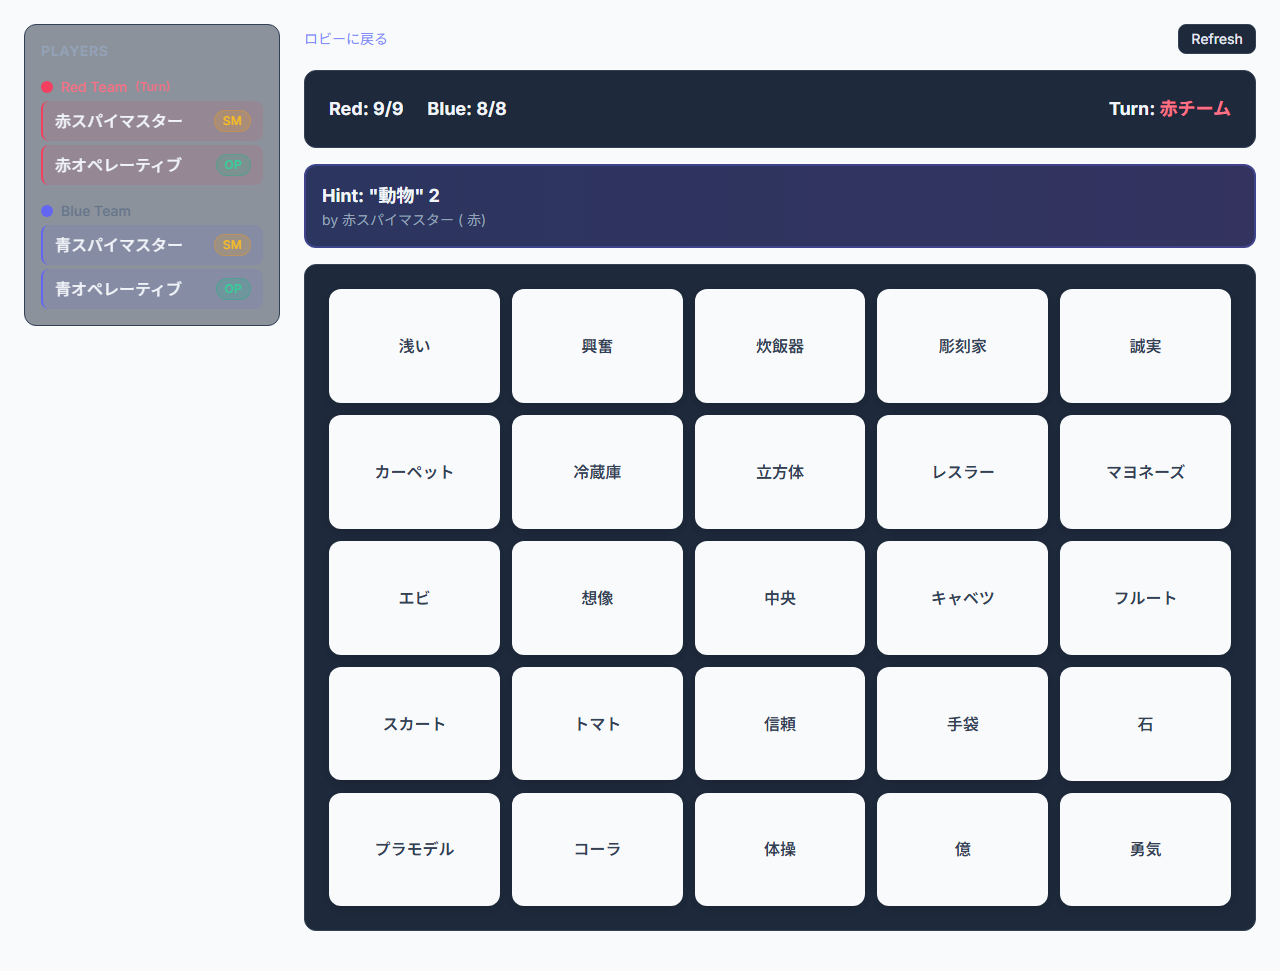
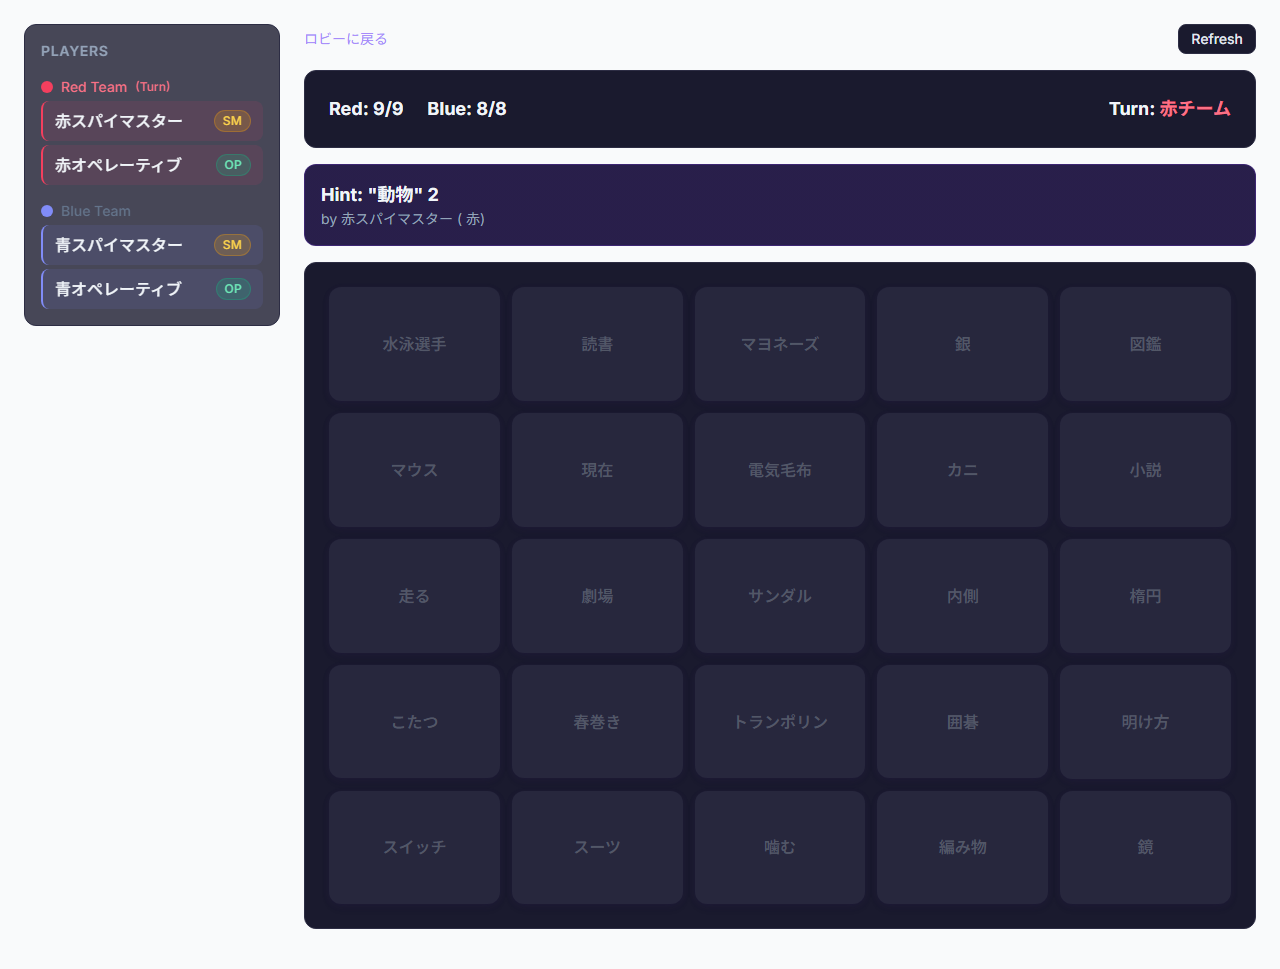
refactor: ゲームUIを統一感のあるダークパープルテーマに変更
- 白カードを廃止し、ダークパープル系の統一カラーパレットに変更
- Gaming風配色: 背景#0F0F23、カード#2d2d44、アクセント#7C3AED
- コントラストを抑えた柔らかい配色で目に優しく
- ボタン・ヒント表示・ボーダーをパープル系で統一
- 紫のグロー効果を追加したカードシャドウ

🤖 Generated with [Claude Code](https://claude.com/claude-code)

diff --git a/client/e2e/screenshot-game.spec.ts b/client/e2e/screenshot-game.spec.ts
@@ -1,0 +1,132 @@
+import { test, expect } from '@playwright/test';
+
+const PROD_URL = process.env.PROD_URL || 'http://localhost:5173';
+
+test.describe('ゲーム画面スクリーンショット', () => {
+  test('ゲーム画面のデザインをキャプチャ', async ({ browser }) => {
+    test.setTimeout(120000);
+
+    const context1 = await browser.newContext();
+    const context2 = await browser.newContext();
+    const context3 = await browser.newContext();
+    const context4 = await browser.newContext();
+
+    const hostPage = await context1.newPage();
+    const player2Page = await context2.newPage();
+    const player3Page = await context3.newPage();
+    const player4Page = await context4.newPage();
+
+    try {
+      // ルーム作成
+      await hostPage.goto(PROD_URL);
+      await hostPage.waitForLoadState('networkidle');
+
+      await hostPage.getByRole('link', { name: /ルームを作成/ }).click();
+      await hostPage.waitForTimeout(2000);
+
+      await hostPage.fill('#nickname', '赤スパイマスター');
+      await hostPage.fill('#roomName', 'デザインテスト');
+      await hostPage.getByRole('button', { name: /ルームを作成/i }).click();
+      await hostPage.waitForURL(/\/room\/[A-Z0-9]+$/, { timeout: 30000 });
+
+      const roomUrl = hostPage.url();
+      const roomCode = roomUrl.split('/').pop() || '';
+
+      // プレイヤー参加
+      await player2Page.goto(`${PROD_URL}/join`);
+      await player2Page.fill('#roomCode', roomCode);
+      await player2Page.fill('#nickname', '赤オペレーティブ');
+      await player2Page.getByRole('button', { name: /参加/i }).click();
+      await player2Page.waitForTimeout(2000);
+
+      await player3Page.goto(`${PROD_URL}/join`);
+      await player3Page.fill('#roomCode', roomCode);
+      await player3Page.fill('#nickname', '青スパイマスター');
+      await player3Page.getByRole('button', { name: /参加/i }).click();
+      await player3Page.waitForTimeout(2000);
+
+      await player4Page.goto(`${PROD_URL}/join`);
+      await player4Page.fill('#roomCode', roomCode);
+      await player4Page.fill('#nickname', '青オペレーティブ');
+      await player4Page.getByRole('button', { name: /参加/i }).click();
+      await player4Page.waitForTimeout(2000);
+
+      // チーム選択
+      await hostPage.getByRole('button', { name: /スパイマスターになる/i }).first().click();
+      await hostPage.waitForTimeout(1000);
+
+      await player2Page.getByRole('button', { name: /オペレーティブになる/i }).first().click();
+      await player2Page.waitForTimeout(1000);
+
+      await player3Page.getByRole('button', { name: /スパイマスターになる/i }).nth(1).click();
+      await player3Page.waitForTimeout(1000);
+
+      await player4Page.getByRole('button', { name: /オペレーティブになる/i }).nth(1).click();
+      await player4Page.waitForTimeout(2000);
+
+      // ロビー画面スクリーンショット
+      await hostPage.screenshot({ path: 'screenshots/lobby-new-design.png', fullPage: true });
+
+      // ゲーム開始
+      await hostPage.getByRole('button', { name: /ゲームを開始/i }).click();
+      await hostPage.waitForURL(/\/room\/[A-Z0-9]+\/game$/);
+      await hostPage.waitForTimeout(3000);
+
+      // 他のプレイヤーもゲーム画面に遷移
+      await player2Page.goto(`${PROD_URL}/room/${roomCode}/game`);
+      await player3Page.goto(`${PROD_URL}/room/${roomCode}/game`);
+      await player4Page.goto(`${PROD_URL}/room/${roomCode}/game`);
+      await hostPage.waitForTimeout(3000);
+
+      // スパイマスタービュースクリーンショット
+      await hostPage.screenshot({ path: 'screenshots/game-spymaster-view.png', fullPage: true });
+
+      // オペレーティブビュースクリーンショット
+      await player2Page.screenshot({ path: 'screenshots/game-operative-view.png', fullPage: true });
+
+      // ヒント入力
+      const hintInput = hostPage.locator('input[placeholder*="hint" i], input[placeholder*="ヒント"]');
+      if (await hintInput.isVisible()) {
+        await hintInput.fill('動物');
+        const countInput = hostPage.locator('input[type="number"]');
+        await countInput.fill('2');
+        await hostPage.getByRole('button', { name: /送信/i }).click();
+        await hostPage.waitForTimeout(2000);
+      }
+
+      // ヒント表示後スクリーンショット
+      await player2Page.reload();
+      await player2Page.waitForTimeout(2000);
+      await player2Page.screenshot({ path: 'screenshots/game-with-hint.png', fullPage: true });
+
+      // カード選択（1枚）
+      const cardButtons = player2Page.locator('button').filter({
+        hasText: /[\u3040-\u309F\u30A0-\u30FF\u4E00-\u9FAF]+/
+      });
+      const cardCount = await cardButtons.count();
+      for (let i = 0; i < cardCount; i++) {
+        const btn = cardButtons.nth(i);
+        const text = await btn.textContent();
+        const isDisabled = await btn.isDisabled();
+        if (text && !text.includes('更新') && !text.includes('Refresh') && !text.includes('ロビー') && !isDisabled) {
+          await btn.click();
+          await player2Page.waitForTimeout(2000);
+          break;
+        }
+      }
+
+      // カード公開後スクリーンショット
+      await hostPage.reload();
+      await hostPage.waitForTimeout(2000);
+      await hostPage.screenshot({ path: 'screenshots/game-card-revealed.png', fullPage: true });
+
+      console.log('✅ スクリーンショット保存完了: screenshots/');
+
+    } finally {
+      await context1.close();
+      await context2.close();
+      await context3.close();
+      await context4.close();
+    }
+  });
+});

diff --git a/client/src/components/game/GameCard.tsx b/client/src/components/game/GameCard.tsx
@@ -14,38 +14,41 @@ export default function GameCard({ card, isSpymaster, onSelect, disabled }: Game
     if (card.isRevealed) {
       switch (card.type) {
         case CardTypeEnum.RED:
-          return baseStyles + ' bg-gradient-to-br from-rose-500 to-rose-600 text-white shadow-lg shadow-rose-500/25 opacity-80';
+          return baseStyles + ' bg-gradient-to-br from-rose-600/90 to-rose-700/90 text-white shadow-lg shadow-rose-500/30';
         case CardTypeEnum.BLUE:
-          return baseStyles + ' bg-gradient-to-br from-indigo-500 to-indigo-600 text-white shadow-lg shadow-indigo-500/25 opacity-80';
+          return baseStyles + ' bg-gradient-to-br from-indigo-500/90 to-indigo-600/90 text-white shadow-lg shadow-indigo-500/30';
         case CardTypeEnum.NEUTRAL:
-          return baseStyles + ' bg-slate-600 text-slate-300 opacity-60';
+          return baseStyles + ' bg-gray-600/80 text-gray-300';
         case CardTypeEnum.ASSASSIN:
-          return baseStyles + ' bg-gradient-to-br from-zinc-800 to-zinc-900 text-zinc-400 shadow-lg shadow-black/50 opacity-80';
+          return baseStyles + ' bg-gradient-to-br from-zinc-900 to-black text-zinc-500 shadow-lg shadow-black/50';
         default:
-          return baseStyles + ' bg-slate-200 text-slate-800';
+          return baseStyles + ' bg-game-surface text-card-text';
       }
     }
 
+    // Spymaster view - show colored borders
     if (isSpymaster) {
       switch (card.type) {
         case CardTypeEnum.RED:
-          return baseStyles + ' bg-card-default text-slate-800 ring-2 ring-rose-500 ring-inset shadow-card';
+          return baseStyles + ' bg-card-default text-card-text ring-2 ring-rose-500/70 ring-inset shadow-card';
         case CardTypeEnum.BLUE:
-          return baseStyles + ' bg-card-default text-slate-800 ring-2 ring-indigo-500 ring-inset shadow-card';
+          return baseStyles + ' bg-card-default text-card-text ring-2 ring-indigo-400/70 ring-inset shadow-card';
         case CardTypeEnum.NEUTRAL:
-          return baseStyles + ' bg-card-default text-slate-800 ring-2 ring-slate-400 ring-inset shadow-card';
+          return baseStyles + ' bg-card-default text-card-text ring-2 ring-gray-500/50 ring-inset shadow-card';
         case CardTypeEnum.ASSASSIN:
-          return baseStyles + ' bg-card-default text-slate-800 ring-2 ring-zinc-800 ring-inset shadow-card';
+          return baseStyles + ' bg-card-default text-card-text ring-2 ring-zinc-900 ring-inset shadow-card';
         default:
-          return baseStyles + ' bg-card-default text-slate-800 shadow-card';
+          return baseStyles + ' bg-card-default text-card-text shadow-card';
       }
     }
 
+    // Disabled state
     if (disabled) {
-      return baseStyles + ' bg-card-default text-slate-700 shadow-card cursor-not-allowed';
+      return baseStyles + ' bg-card-default text-gray-500 shadow-card cursor-not-allowed opacity-70';
     }
 
-    return baseStyles + ' bg-card-default text-slate-800 shadow-card hover:shadow-card-hover hover:scale-[1.02] hover:bg-card-hover active:scale-[0.98]';
+    // Normal operative view
+    return baseStyles + ' bg-card-default text-card-text shadow-card hover:shadow-card-hover hover:scale-[1.02] hover:bg-card-hover active:scale-[0.98]';
   };
 
   const getTypeIndicatorColor = () => {
@@ -53,13 +56,13 @@ export default function GameCard({ card, isSpymaster, onSelect, disabled }: Game
       case CardTypeEnum.RED:
         return 'bg-rose-500';
       case CardTypeEnum.BLUE:
-        return 'bg-indigo-500';
+        return 'bg-indigo-400';
       case CardTypeEnum.NEUTRAL:
-        return 'bg-slate-400';
+        return 'bg-gray-500';
       case CardTypeEnum.ASSASSIN:
-        return 'bg-zinc-800';
+        return 'bg-zinc-900 ring-1 ring-zinc-700';
       default:
-        return 'bg-slate-400';
+        return 'bg-gray-500';
     }
   };
 
@@ -75,13 +78,13 @@ export default function GameCard({ card, isSpymaster, onSelect, disabled }: Game
       </span>
 
       {isSpymaster && !card.isRevealed && (
-        <div className={'absolute top-2 right-2 w-2.5 h-2.5 rounded-full shadow-sm ' + getTypeIndicatorColor()} />
+        <div className={'absolute top-2 right-2 w-3 h-3 rounded-full shadow-sm ' + getTypeIndicatorColor()} />
       )}
 
       {card.isRevealed && (
         <div className="absolute inset-0 flex items-center justify-center pointer-events-none">
           <svg
-            className="w-12 h-12 text-white/30"
+            className="w-12 h-12 text-white/40"
             fill="none"
             stroke="currentColor"
             viewBox="0 0 24 24"

diff --git a/client/src/index.css b/client/src/index.css
@@ -11,21 +11,21 @@
 }
 
 @layer components {
-  /* Modern button styles */
+  /* Modern button styles with purple accent */
   .btn-primary {
-    @apply px-5 py-2.5 bg-indigo-600 text-white rounded-lg font-medium
-           hover:bg-indigo-500 active:bg-indigo-700
+    @apply px-5 py-2.5 bg-game-accent text-white rounded-lg font-medium
+           hover:bg-violet-600 active:bg-violet-800
            transition-all duration-200 
-           disabled:bg-slate-600 disabled:cursor-not-allowed
-           focus:outline-none focus:ring-2 focus:ring-indigo-500 focus:ring-offset-2 focus:ring-offset-game-bg;
+           disabled:bg-gray-600 disabled:cursor-not-allowed
+           focus:outline-none focus:ring-2 focus:ring-game-accent focus:ring-offset-2 focus:ring-offset-game-bg;
   }
 
   .btn-secondary {
     @apply px-5 py-2.5 bg-game-surface text-slate-200 rounded-lg font-medium
            border border-game-border
-           hover:bg-slate-700 hover:border-slate-600 active:bg-slate-800
+           hover:bg-card-hover hover:border-game-accent/30 active:bg-game-surface
            transition-all duration-200
-           focus:outline-none focus:ring-2 focus:ring-slate-500 focus:ring-offset-2 focus:ring-offset-game-bg;
+           focus:outline-none focus:ring-2 focus:ring-game-accent/50 focus:ring-offset-2 focus:ring-offset-game-bg;
   }
 
   .btn-danger {
@@ -42,9 +42,9 @@
 
   /* Form elements */
   .input-field {
-    @apply w-full px-4 py-2.5 bg-slate-800 border border-game-border rounded-lg
+    @apply w-full px-4 py-2.5 bg-game-surface border border-game-border rounded-lg
            text-slate-100 placeholder-slate-500
-           focus:outline-none focus:ring-2 focus:ring-indigo-500 focus:border-transparent
+           focus:outline-none focus:ring-2 focus:ring-game-accent/50 focus:border-game-accent/50
            transition-all duration-200;
   }
 
@@ -71,16 +71,16 @@
   }
 
   .score-badge-red {
-    @apply bg-team-red/20 text-team-red-light border border-team-red/30;
+    @apply bg-team-red/15 text-team-red-light border border-team-red/25;
   }
 
   .score-badge-blue {
-    @apply bg-team-blue/20 text-team-blue-light border border-team-blue/30;
+    @apply bg-team-blue/15 text-team-blue-light border border-team-blue/25;
   }
 
   /* Player panel */
   .player-panel {
-    @apply bg-game-surface/50 backdrop-blur rounded-xl border border-game-border p-4;
+    @apply bg-game-surface/80 backdrop-blur rounded-xl border border-game-border p-4;
   }
 
   .player-item {
@@ -101,17 +101,17 @@
   }
 
   .role-badge-spymaster {
-    @apply bg-amber-500/20 text-amber-400 border border-amber-500/30;
+    @apply bg-amber-500/20 text-amber-300 border border-amber-500/30;
   }
 
   .role-badge-operative {
-    @apply bg-emerald-500/20 text-emerald-400 border border-emerald-500/30;
+    @apply bg-emerald-500/20 text-emerald-300 border border-emerald-500/30;
   }
 
   /* Hint display */
   .hint-display {
-    @apply bg-gradient-to-r from-indigo-500/20 to-violet-500/20 
-           border border-indigo-500/30 rounded-xl p-4;
+    @apply bg-gradient-to-r from-game-accent/15 to-violet-600/15 
+           border border-game-accent/25 rounded-xl p-4;
   }
 }
 

diff --git a/client/tailwind.config.js b/client/tailwind.config.js
@@ -7,33 +7,35 @@ export default {
   theme: {
     extend: {
       colors: {
-        // Modern refined palette
+        // Gaming-inspired unified dark palette
         game: {
-          bg: '#0f172a',        // Slate 900 - deep dark background
-          surface: '#1e293b',   // Slate 800 - card surfaces
-          border: '#334155',    // Slate 700 - borders
+          bg: '#0F0F23',        // Deep purple-navy background
+          surface: '#1a1a2e',   // Slightly lighter purple surface
+          border: '#2d2d44',    // Soft purple border
+          accent: '#7C3AED',    // Vibrant purple accent
         },
         team: {
-          red: '#f43f5e',       // Rose 500 - vibrant but refined red
+          red: '#f43f5e',       // Rose 500 - vibrant red
           'red-dark': '#be123c', // Rose 700
           'red-light': '#fda4af', // Rose 300
-          blue: '#6366f1',      // Indigo 500 - modern blue
-          'blue-dark': '#4338ca', // Indigo 700
-          'blue-light': '#a5b4fc', // Indigo 300
+          blue: '#818cf8',      // Indigo 400 - brighter blue for dark bg
+          'blue-dark': '#6366f1', // Indigo 500
+          'blue-light': '#c7d2fe', // Indigo 200
         },
         card: {
-          default: '#f8fafc',   // Slate 50 - unrevealed card
-          hover: '#e2e8f0',     // Slate 200
-          neutral: '#94a3b8',   // Slate 400
-          assassin: '#18181b',  // Zinc 900
+          default: '#2d2d44',   // Soft purple-slate (matches theme)
+          hover: '#3d3d5c',     // Lighter purple on hover
+          text: '#e2e8f0',      // Light text on dark cards
+          neutral: '#6b7280',   // Gray 500
+          assassin: '#1f1f1f',  // Near black
         },
       },
       fontFamily: {
         sans: ['Inter', 'Noto Sans JP', 'system-ui', 'sans-serif'],
       },
       boxShadow: {
-        'card': '0 2px 8px -2px rgba(0, 0, 0, 0.1), 0 4px 12px -4px rgba(0, 0, 0, 0.1)',
-        'card-hover': '0 8px 24px -8px rgba(0, 0, 0, 0.15), 0 12px 32px -12px rgba(0, 0, 0, 0.15)',
+        'card': '0 2px 8px -2px rgba(124, 58, 237, 0.15), 0 4px 12px -4px rgba(0, 0, 0, 0.2)',
+        'card-hover': '0 8px 24px -8px rgba(124, 58, 237, 0.25), 0 12px 32px -12px rgba(0, 0, 0, 0.3)',
       },
     },
   },

diff --git a/client/src/pages/GamePage.tsx b/client/src/pages/GamePage.tsx
@@ -289,7 +289,7 @@ export default function GamePage() {
       <div className="max-w-[1600px] mx-auto"><div className="flex gap-6"><div className="hidden lg:block w-64 flex-shrink-0"><PlayerPanel players={players} currentTurn={currentTurn} /></div><div className="flex-1 min-w-0">
         {/* ヘッダー */}
         <div className="mb-4 flex items-center justify-between">
-          <Link to={`/room/${code}`} className="text-indigo-400 hover:underline text-sm">
+          <Link to={`/room/${code}`} className="text-violet-400 hover:text-violet-300 hover:underline transition-colors text-sm">
             ロビーに戻る
           </Link>
           <button onClick={loadGameData} className="btn-secondary text-sm px-3 py-1">
@@ -336,7 +336,7 @@ export default function GamePage() {
 
         {/* ヒント表示 */}
         {latestHint && (
-          <div className="card mb-4 hint-display border-2 border-indigo-500/30">
+          <div className="card mb-4 hint-display ">
             <p className="text-lg font-bold">
                Hint: "{latestHint.word}" {latestHint.count}
             </p>
@@ -348,7 +348,7 @@ export default function GamePage() {
 
         {/* ヒント入力（スパイマスター用） */}
         {canGiveHint && (
-          <div className="card mb-4 bg-gradient-to-r from-amber-500/10 to-orange-500/10 border-2 border-amber-500/30">
+          <div className="card mb-4 bg-gradient-to-r from-violet-600/15 to-purple-600/15 border border-violet-500/25">
             <h3 className="font-bold mb-2">Give a Hint</h3>
             <div className="flex gap-2">
               <input
@@ -395,7 +395,7 @@ export default function GamePage() {
 
         {/* ターンパスボタン */}
         {canSelectCard && (
-          <div className="card bg-gradient-to-r from-slate-700/50 to-slate-600/50 border-2 border-slate-600">
+          <div className="card bg-gradient-to-r from-game-surface to-card-default border border-game-border">
             <button
               onClick={handlePassTurn}
               className="btn-secondary w-full text-lg py-3"
